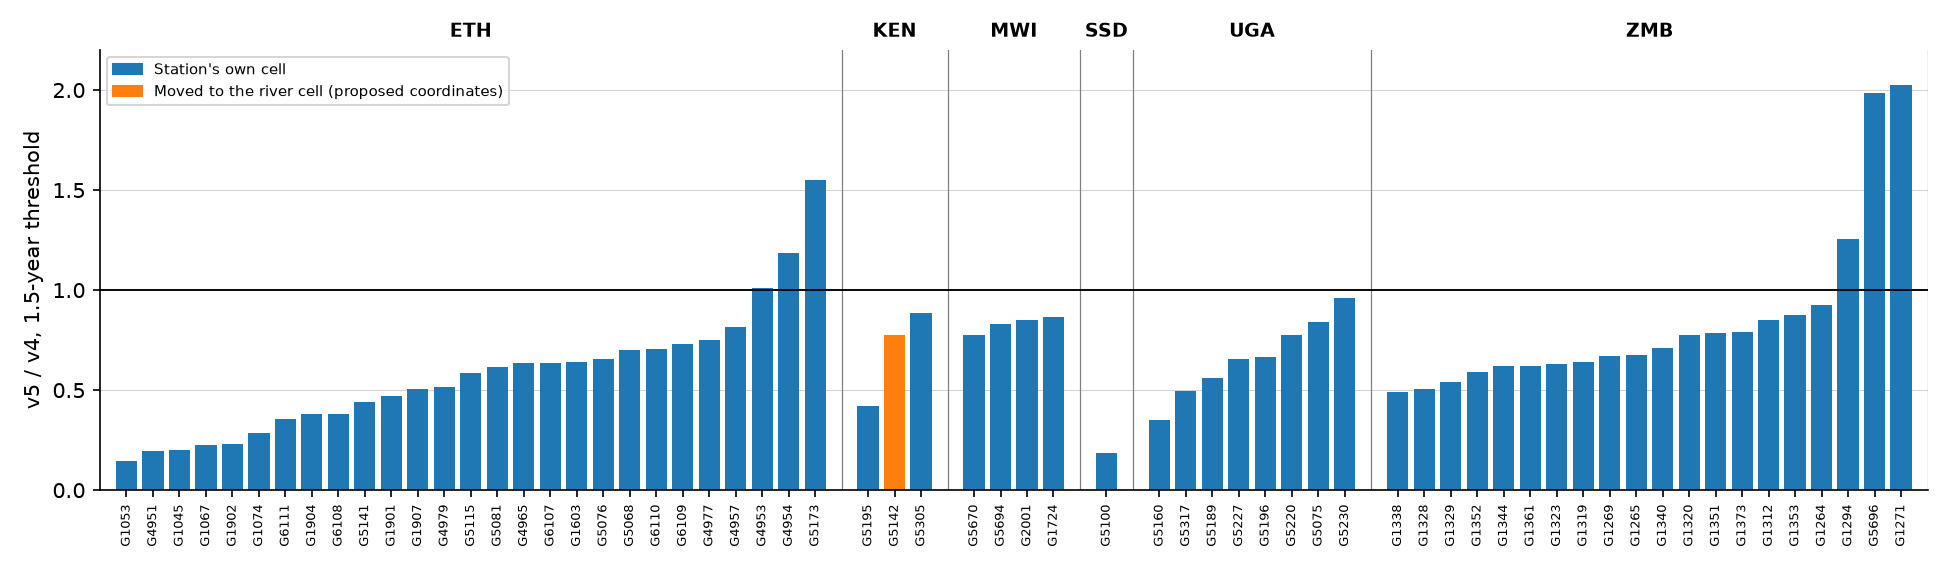
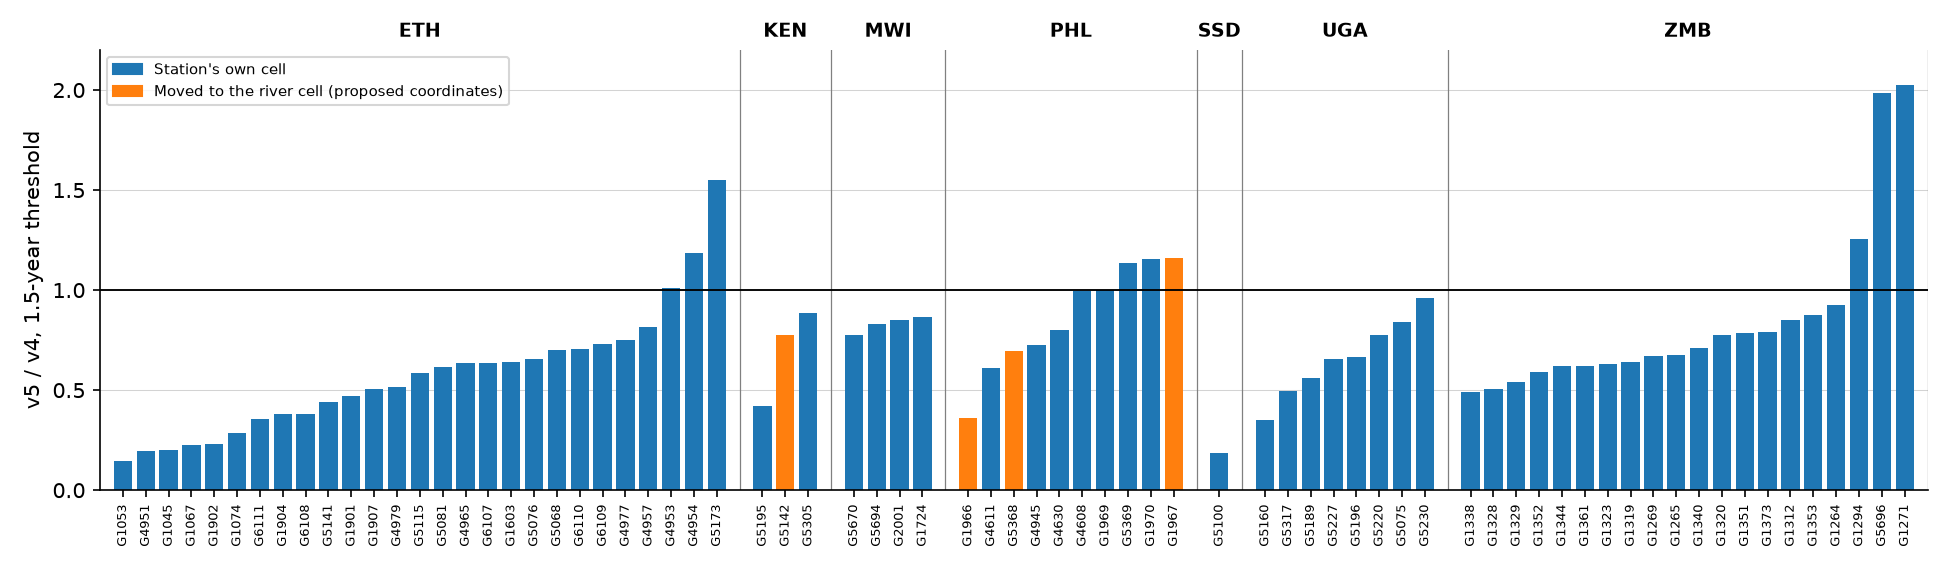
feat: Add the Philippines to the GloFAS v5 threshold analysis
All 73 stations now in the comparison and the slide deck.

See AB#45890

diff --git a/data/analysis/glofas_v5_thresholds/results/glofas_v5_thresholds_slides.md b/data/analysis/glofas_v5_thresholds/results/glofas_v5_thresholds_slides.md
@@ -24,11 +24,11 @@ style: |
 
 # GloFAS v5 thresholds for NRW, and a station fix found along the way
 
-Preview for AB#45890, 23 November 2026: our own v5 thresholds, computed with ECMWF's method. Not yet in the v5 comparison: PHL, still downloading.
+Preview for AB#45890, 24 November 2026: our own v5 thresholds, computed with ECMWF's method.
 
 **Question:** what do the GloFAS v5 thresholds mean for NRW?
 
-- **Answer:** they are lower, median ×0.65 of v4, so forecasts and thresholds must switch to v5 together.
+- **Answer:** they are lower, median ×0.67 of v4, so forecasts and thresholds must switch to v5 together.
 - Our method reproduces ECMWF's v4 thresholds exactly.
 
 **Found along the way, independent of v5:** 17 station coordinates point at the wrong cell. A small fix, now (AB#45972).
@@ -83,6 +83,7 @@ Checked for 4 stations only, to save download time.
 | ETH     | 27       | ×0.59          | ×0.14 – ×1.55 | 24          |
 | KEN     | 3        | ×0.78          | ×0.42 – ×0.88 | 3           |
 | MWI     | 4        | ×0.84          | ×0.77 – ×0.86 | 4           |
+| PHL     | 10       | ×0.90          | ×0.36 – ×1.16 | 6           |
 | SSD     | 1        | ×0.19          | ×0.19 – ×0.19 | 1           |
 | UGA     | 8        | ×0.66          | ×0.35 – ×0.96 | 8           |
 | ZMB     | 20       | ×0.69          | ×0.49 – ×2.02 | 17          |
@@ -91,13 +92,13 @@ Checked for 4 stations only, to save download time.
 
 ## Answer: switch the forecasts and the thresholds to v5 at the same moment
 
-v5 thresholds are generally lower than v4: median ×0.65, because v5 simulates lower river flows.
+v5 thresholds are generally lower than v4: median ×0.67, because v5 simulates lower river flows.
 
 | Share of years reaching the 1.5-year threshold, 2016–2025 |     |
 | --------------------------------------------------------- | --- |
 | v4 against v4 thresholds (MWI, 4 stations)                | 75% |
 | v5 against v5 thresholds                                  | 74% |
-| v5 against today's v4 thresholds                          | 32% |
+| v5 against today's v4 thresholds                          | 35% |
 
 **So v5 forecasts need v5 thresholds:** with today's thresholds, far fewer alerts.
 
@@ -107,12 +108,12 @@ v5 thresholds are generally lower than v4: median ×0.65, because v5 simulates l
 
 ## Next steps for v5
 
-| What                                     | Stations                                                                                                       | Action                                                                   |
-| ---------------------------------------- | -------------------------------------------------------------------------------------------------------------- | ------------------------------------------------------------------------ |
-| Switch forecasts and thresholds together | All                                                                                                            | Migration process (AB#45893)                                             |
-| Large drop, below ×0.50                  | G1053, G5100, G4951, G1045, G1067, G1902, G1074, G5160, G6111, G1904, G6108, G5195, G5141, G1901, G1338, G5317 | Ask the GloFAS team (AB#45889)                                           |
-| Large rise, above ×1.50                  | G1271, G5696, G5173                                                                                            | Same                                                                     |
-| Before going live                        | All                                                                                                            | ECMWF's v5 files; update path for production, tested on test and staging |
+| What                                     | Stations                                                                                                              | Action                                                                   |
+| ---------------------------------------- | --------------------------------------------------------------------------------------------------------------------- | ------------------------------------------------------------------------ |
+| Switch forecasts and thresholds together | All                                                                                                                   | Migration process (AB#45893)                                             |
+| Large drop, below ×0.50                  | G1053, G5100, G4951, G1045, G1067, G1902, G1074, G5160, G6111, G1966, G1904, G6108, G5195, G5141, G1901, G1338, G5317 | Ask the GloFAS team (AB#45889)                                           |
+| Large rise, above ×1.50                  | G1271, G5696, G5173                                                                                                   | Same                                                                     |
+| Before going live                        | All                                                                                                                   | ECMWF's v5 files; update path for production, tested on test and staging |
 
 ---
 
@@ -131,7 +132,7 @@ v4 upstream area per cell (km²), north up, 0.05° cells. **Red dot:** seed coor
 
 ## Independent of v5, but worth fixing now
 
-**Independent of v4 or v5:** the coordinates are wrong today, and in v5 the river is in the same cell as in v4, at all 63 compared stations. So the fix holds after the switch.
+**Independent of v4 or v5:** the coordinates are wrong today, and in v5 the river is in the same cell as in v4, at all 73 compared stations. So the fix holds after the switch.
 
 **Why now, here:**
 
@@ -150,9 +151,9 @@ v4 upstream area per cell (km²), north up, 0.05° cells. **Red dot:** seed coor
 | Station   | Coordinates now   | Proposed        | Forecast cell now, km² | Proposed, km² | v4 threshold: now → fixed | v5 threshold, fixed |
 | --------- | ----------------- | --------------- | ---------------------- | ------------- | ------------------------- | ------------------- |
 | KEN G5142 | -1.0950, 37.1940  | -1.075, 37.225  | 31                     | 5,568         | 2 → 194                   | 150                 |
-| PHL G1966 | 14.8940, 120.7300 | 14.925, 120.725 | 30                     | 7,806         | 9 → 2,245                 | pending             |
-| PHL G1967 | 15.3440, 120.4650 | 15.375, 120.475 | 119                    | 267           | 41 → 94                   | pending             |
-| PHL G5368 | 8.8860, 125.5410  | 8.875, 125.575  | 30                     | 11,514        | 8 → 2,577                 | pending             |
+| PHL G1966 | 14.8940, 120.7300 | 14.925, 120.725 | 30                     | 7,806         | 9 → 2,245                 | 810                 |
+| PHL G1967 | 15.3440, 120.4650 | 15.375, 120.475 | 119                    | 267           | 41 → 94                   | 108                 |
+| PHL G5368 | 8.8860, 125.5410  | 8.875, 125.575  | 30                     | 11,514        | 8 → 2,577                 | 1,794               |
 | ETH G1045 | 11.6833, 40.9500  | 11.675, 40.975  | 30 or 58,322           | 58,322        | 1,061, same               | 212                 |
 | ETH G1603 | 8.2500, 34.5700   | 8.225, 34.575   | 30 or 23,601           | 23,601        | 1,641, same               | 1,053               |
 | ETH G4954 | 11.0500, 41.6500  | 11.075, 41.675  | 30 or 21,064           | 21,064        | 42, same                  | 50                  |
@@ -178,8 +179,8 @@ Upstream area of the cell the forecast comes from: on a boundary, either touchin
 
 ## Backup: the new model causes most of the change, not the trend step
 
-- **Model:** v5 without trend step / v4, median ×0.65.
-- **Trend step:** v5 / v5 without trend step, median ×1.00; more than 10% change at 12 of 63 stations. It is the one step we could not check against ECMWF.
+- **Model:** v5 without trend step / v4, median ×0.67.
+- **Trend step:** v5 / v5 without trend step, median ×1.00; more than 10% change at 12 of 73 stations. It is the one step we could not check against ECMWF.
 
 Where the trend step matters most, 1.5-year threshold in m³/s:
 
